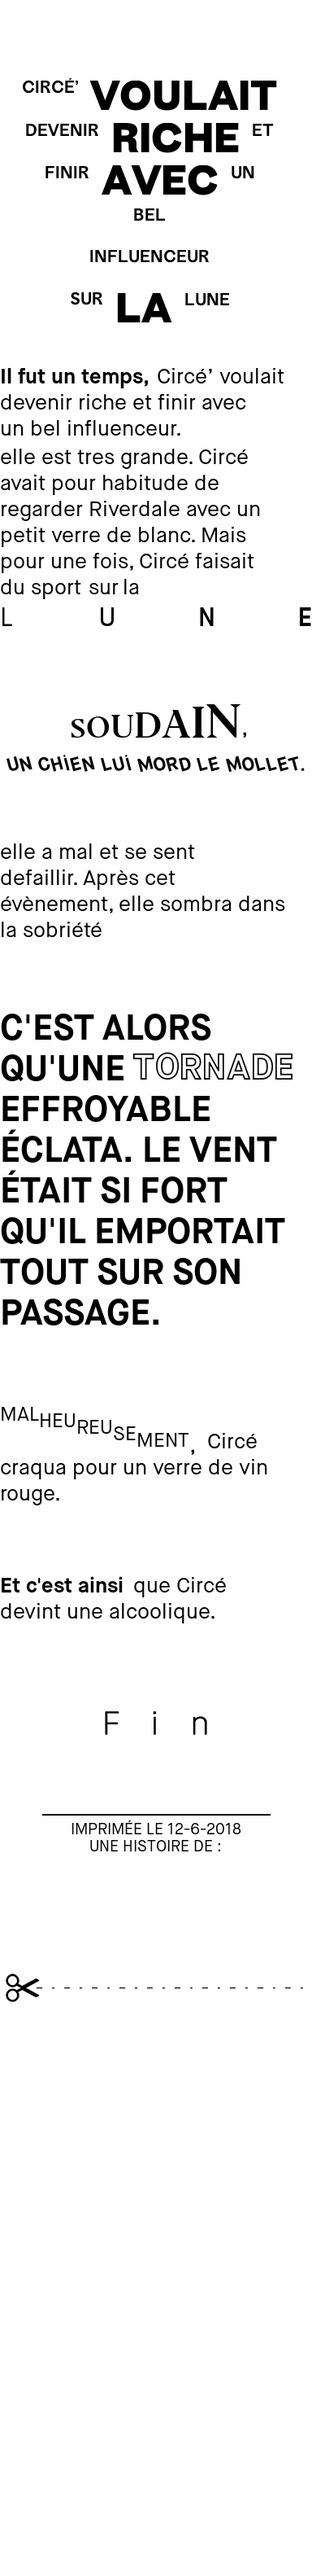
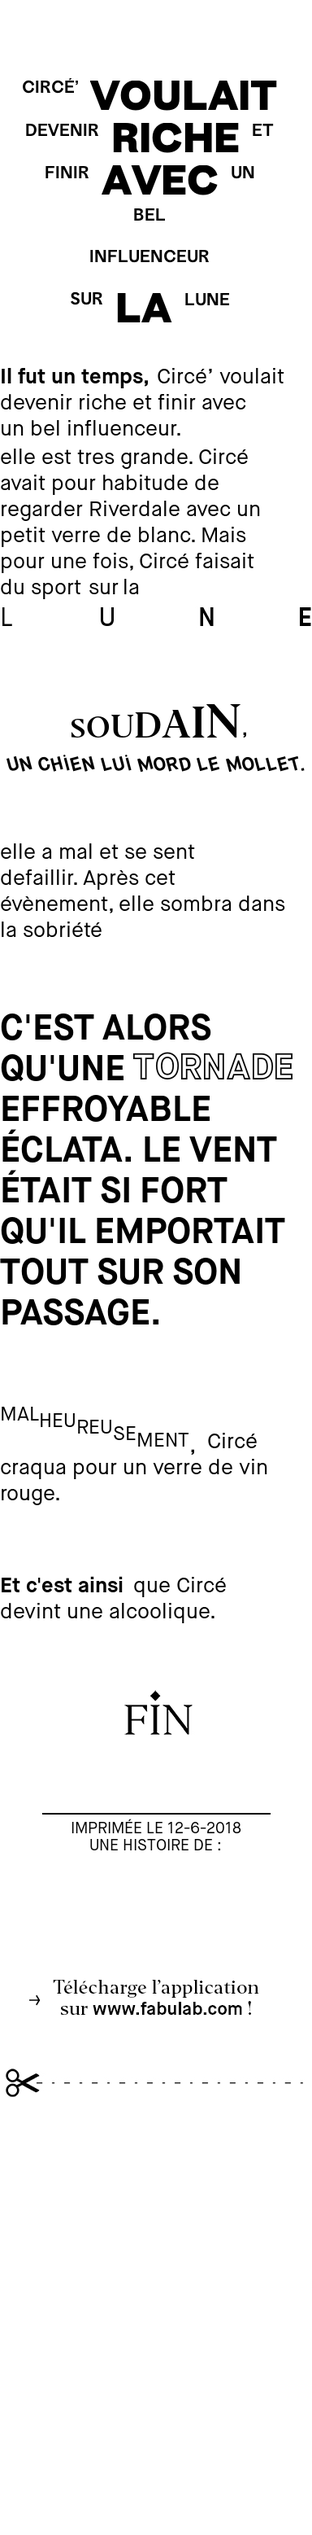
feat(story) : add website

diff --git a/effects.py b/effects.py
@@ -135,7 +135,7 @@ def get_img_height(custom_words, title, story_parts, width, onceupon_effect, top
     img_end_height = add_image("assets/img/fin0"+ str(end_random) +".jpg", False)
     images_height += img_end_height
     
-    images_height = 250 # end_height
+    images_height = 200 # end_height
     
     # cut
     img_cut_height = add_image("assets/img/cut.jpg", False)
@@ -786,9 +786,14 @@ def draw_end(width, top_end, font_size, text_color, spacing, img, context = Fals
     sentence_width, sentence_height = text_maison_neue_book_written.getsize(sentence) # get text width
     sentence_left = (width - sentence_width) / 2
     context.multiline_text((sentence_left,top_end), sentence, fill=text_color, font=text_maison_neue_book_written)
-    top_end += 120
-    effect_height += 120
+    top_end += 150
+    effect_height += 150
 
+    # website
+    img_end_height = add_image("assets/img/website.png", True, top_end, img)
+    top_end += img_end_height
+    effect_height += img_end_height
+    
     # cut
     img_cut_height = add_image("assets/img/cut.jpg", True, top_end, img)
     

diff --git a/storydesign.py b/storydesign.py
@@ -124,7 +124,6 @@ class StoryDesign():
                 if start_sentence.find(",") >= 0:
 		    start_sentence = start_sentence[0:len(start_sentence) - 1] # suctract "," to detect the word
 		
-		print start_sentence
 		    
 		# fonction mirrot effect
 		if start_sentence == "Il était une fois":
